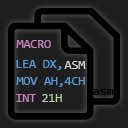
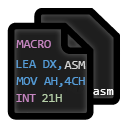
修复下载组件失败的bug，修改logo

diff --git a/src/DOSBoxDownloader.ts b/src/DOSBoxDownloader.ts
@@ -3,13 +3,12 @@ import { createWriteStream } from 'fs';
 import { FileSystem, OutputChannel, Uri } from 'vscode';
 export class Downloader {
 
-    public static readonly DOSBOX = [
+    private static readonly _FILE_LINK = 'https://github.com/Woodykaixa/masm-code/releases/download/Masm%26DOSBox/';
+
+    public static readonly _FILE_LIST = [
         'DOSBox.exe',
         'SDL_net.dll',
-        'SDL.dll'
-    ];
-
-    private static readonly MASM = [
+        'SDL.dll',
         'DEBUG.EXE',
         'DOSXNT.EXE',
         'LINK.EXE',
@@ -21,16 +20,18 @@ export class Downloader {
     private _path: string;
     private _channel: OutputChannel;
     private _directoryUri: Uri;
+    private _downloadCounter: number = 0;
+    private _listCount: number = 0;
 
     constructor(fs: FileSystem, path: string, outputChannel: OutputChannel) {
         this._fs = fs;
         this._path = path;
         this._channel = outputChannel;
         this._directoryUri = Uri.parse('file:///' + this._path);
-
     }
 
     async checkMissingFile(fileList: string[]) {
+        this._channel.appendLine('正在检查DOSBox和Masm缺失的文件。');
         const entries = await this._fs.readDirectory(this._directoryUri);
         const toDownload = fileList.concat();
         entries.forEach(entry => {
@@ -39,31 +40,31 @@ export class Downloader {
                 toDownload.splice(i, 1);
             }
         });
+        this._channel.appendLine('检查完成。');
         return toDownload;
     };
 
     public async downloadMissingFile() {
-        console.log(this._path);
-        console.log(this._directoryUri);
-        this._channel.appendLine('正在下载DOSBox和Masm缺失的文件。');
         await this._fs.createDirectory(this._directoryUri);
-        let fileList = await this.checkMissingFile(Downloader.DOSBOX);
+        let fileList = await this.checkMissingFile(Downloader._FILE_LIST);
+        this._downloadCounter = 0;
+        this._listCount = fileList.length;
+        if (this._listCount === 0) {
+            return;
+        }
         fileList.forEach(file => {
             this._channel.appendLine(`文件：${file}缺失，正在重新下载。`);
-            this.download(this._path, file,
-                'https://raw.githubusercontent.com/Woodykaixa/masm-code/master/dosbox');
-        });
-        fileList = await this.checkMissingFile(Downloader.MASM);
-        fileList.forEach(file => {
-            this._channel.appendLine(`文件:${file}缺失，正在重新下载。`);
-            this.download(this._path, file,
-                'https://raw.githubusercontent.com/Woodykaixa/masm-code/master/dosbox/bin');
+            this.download(this._path, file);
         });
     }
-    private download(path: string, filename: string, uri: string) {
+
+    private download(path: string, filename: string) {
         const stream = createWriteStream(path + '/' + filename);
-        request(uri + '/' + filename).pipe(stream)
-            .on('close', () => { this._channel.appendLine(filename + ' 下载完成'); });
+        request(Downloader._FILE_LINK + filename).pipe(stream)
+            .on('close', () => {
+                this._downloadCounter++;
+                this._channel.appendLine(`${filename}下载完成。(${this._downloadCounter}/${this._listCount})`);
+            });
     };
 
 }

diff --git a/README.md b/README.md
@@ -2,12 +2,12 @@
 
 这学期我们学校在上8086汇编课程，使用Masm for Windows写汇编程序。而Masm fow Windows这个软件，UI丑，部分功能还收费。于是我写了这个扩展。**PS:我写的有点急，可能有一点小bug。以及：Mocha我在学了，下次一定写测试。**
 
-## Features（谁教教我这个词怎么翻译合适）
+## 功能
 
 + Intel 8086汇编的语法高亮
 + 自动下载Masm和DOSBox。无需手动配置。
 
-## Requirements（还有这个词）
+## 安装要求
 
 无！有手就能用！
 
@@ -25,7 +25,7 @@
     }
 ```
 
-## 已知存在的bug
+## 可能存在的bug
 
 + 有的时候，如果你缺少了masm或者dosbox的文件，他会显示正在下载，然后不动了。怎么办呢。打开目录`C:/Users/你的名字/AppData/Roaming/Code/User/globalStorage/kaixa.masm-code/`把里面大小为0kb的删掉，然后重启vscode。（我还没学会怎么重新加载扩展qaq）
 + 其他bug，遇到的我都解决了，但是我感觉可能还是会遇到奇奇怪怪的问题。这时候你可以在[这里](https://github.com/Woodykaixa/masm-code/issues)反馈

diff --git a/CHANGELOG.md b/CHANGELOG.md
@@ -2,9 +2,22 @@
 
 Masm-code 改动日志。[格式参考](http://keepachangelog.com/)
 
+## [1.0.4] - 2000-03-10
+
+### 改动
++ 修复了Masm和DOSBox无法下载的问题，现在**应该**不会再遇到文件大小0kb的问题了
++ 略微改动了logo
+
+
+## [1.0.3] - 2000-03-09
++ 尝试失败，改了回来
+
+## [1.0.2] - 2000-03-09
++ 尝试移除node_modules减小扩展体积
+
 ## [1.0.1] - 2000-03-09
 
-### 修复
+### 改动
 + 修复了扩展没有logo的问题（其实就是我忘了）
 
 ## [1.0.0] - 2020-03-09
